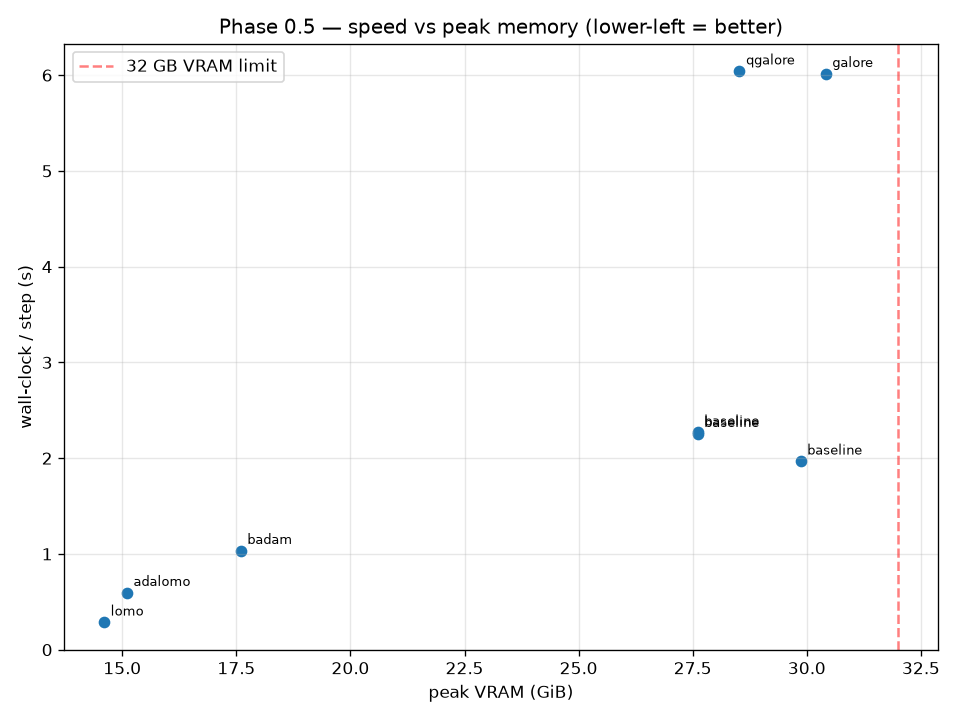
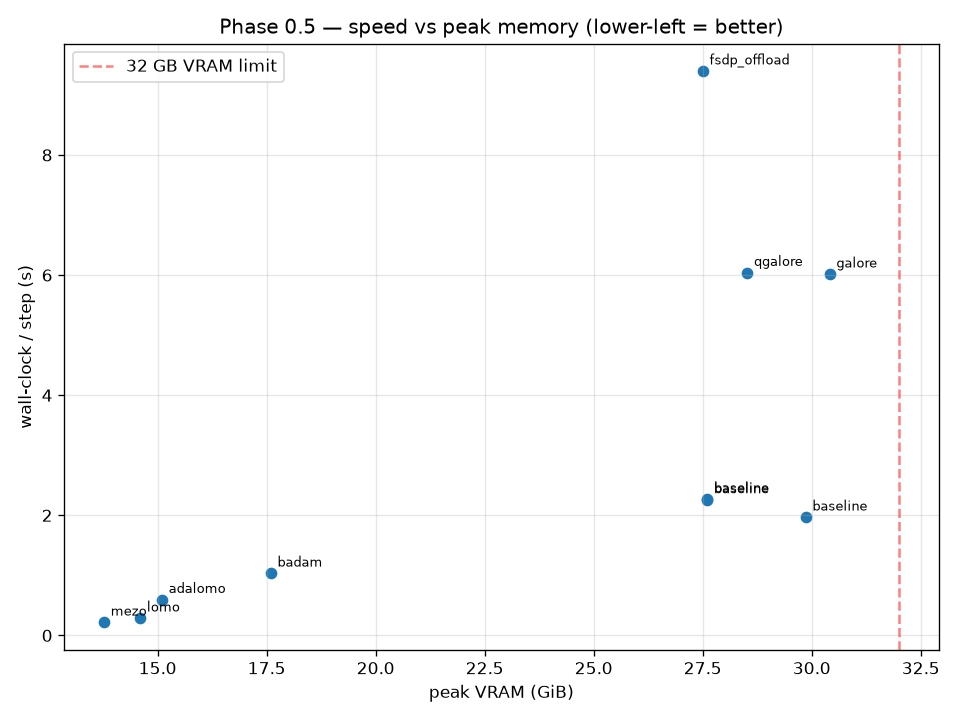
Phase 0.5 Sprint 8: MeZO + FSDP results folded into tables + narrative fix
Both deferred techniques now have real rows in the task843 trade-off
table (results/phase05/feasibility_table.*):

- MeZO: 13.77 GB (the memory FLOOR — no grads, no optimizer state),
  0.22 s/step, but eval 0.00 even at 500 steps (zeroth-order needs
  thousands; fits trivially, doesn't converge in budget).
- FSDP CPU-offload: FITS at 27.5 GB VRAM / 62.5 GB RAM, learns, but
  ~9-13 s/step (~45x slower than on-GPU).

Important narrative correction: "offload is the only route that fails"
was wrong. DeepSpeed OOMs because it keeps an fp32 master copy (+29 GB);
FSDP (bf16 params, no master) fits the same workload in 62 GB RAM. So
offload IS viable here via FSDP -- just PCIe-bound. Updated headline,
smoke table (FSDP row + the framework-divergence explanation), Table 1
(MeZO/FSDP rows + footnotes), the RAM interpretation (on-GPU ~2-5 GB vs
offload 62-87 GB), caveats, and llm_optimizations. Plots refreshed.

Claude-Session: https://claude.ai/code/session_01R7jQcUfZM95SLMxrWRiu3G

diff --git a/docs/phase-0.5-findings.md b/docs/phase-0.5-findings.md
@@ -29,8 +29,14 @@ alone is misleading — the held-out eval is what picks the winner:**
   the headroom winner. This round-trip (picked → withdrawn on eval → restored
   with the right recipe) is the spike's clearest lesson: *measure quality, and
   tune the optimizer to its family.*
-- The classic CPU-offload route (DeepSpeed ZeRO-Offload) is not viable: its fp32
-  optimizer state (~87 GB) exceeds available RAM.
+- **CPU offload is viable — but only via FSDP, and it's ~45× slower.** DeepSpeed
+  ZeRO-Offload OOMs (its fp32 master copy pushes state to ~87 GB > available RAM),
+  but **FSDP CPU-offload fits at 62 GB RAM** (bf16 params, no fp32 master) and
+  trains — at **~9–13 s/step vs ~0.3 s on-GPU**. So offload works as a fallback,
+  not a default.
+- **MeZO is the memory floor (13.8 GB — no grads, no optimizer state) but does not
+  converge in this budget** (eval 0.0 even at 500 steps; zeroth-order needs
+  thousands). It *fits* easily; it doesn't *learn* fast enough to be useful here.
 
 ---
 
@@ -42,7 +48,19 @@ random-token batches (feasibility only — loss values not meaningful).
 | Path | Optimizer | Fits? | Peak VRAM | Peak RAM | s/step | Verdict |
 |---|---|---|---|---|---|---|
 | **8-bit paged AdamW** (model on GPU) | `bnb.PagedAdamW8bit` | ✅ **yes** | **27.24 GB** | 4.5 GB | **1.70** | working fast baseline |
-| DeepSpeed ZeRO-2 + CPU offload | `DeepSpeedCPUAdam` (fp32) | ❌ **no** | — | OOM-killed @ init | — | fp32 state ~84 GB > ~87 GB avail |
+| **FSDP CPU-offload** (params→CPU) | fp32 AdamW | ✅ **yes** | 27.5 GB | **62 GB** | **~9–13** | offload *works* — but PCIe-bound, ~45× slower |
+| DeepSpeed ZeRO-2 + CPU offload | `DeepSpeedCPUAdam` (fp32) | ❌ **no** | — | OOM-killed @ init | — | fp32 state ~87 GB > ~87 GB avail |
+
+**The two offload frameworks diverge — and the reason is instructive.** Same idea
+(optimizer/params on CPU), opposite outcome: **DeepSpeed OOMs, FSDP fits.**
+DeepSpeed ZeRO-Offload keeps an **fp32 master copy** of the weights on CPU
+(+29 GB) on top of fp32 m+v; FSDP with bf16 mixed precision keeps **bf16 params,
+no separate fp32 master**, so its CPU footprint is ~62 GB — under the ~87 GB
+ceiling. So "offload" isn't one thing: the *framework's* precision bookkeeping
+decides feasibility here. FSDP proves offload is reachable on this box; its
+~9–13 s/step (vs ~0.3 s on-GPU) is the PCIe tax that makes it a fallback, not a
+default. (Single-GPU FSDP runs `NO_SHARD` + `CPUOffload` — nothing to shard, but
+params still stream CPU↔GPU.)
 
 ### Why fp32 ZeRO-Offload fails here (the memory math)
 **fp32 is the killer, and DeepSpeed gives no way around it.** DeepSpeed CPU
@@ -100,7 +118,9 @@ micro-batch; the others accumulate 8). Sources:
 | **BAdam** | ✅ | 17.60 GB | 1.9 GB | **0.13** | 14.4 GB | 0.856 | 0.25 |
 | baseline (paged 8-bit) | ✅ | 27.64 GB | 1.9 GB | 0.28 | 4.4 GB | 0.608 | 0.49 |
 | AdaLOMO | ✅ | 15.10 GB | 1.8 GB | 0.60 | 16.9 GB | 0.453 | 1.92 |
-| LOMO | ✅ | **14.60 GB** | 1.7 GB | 0.29 | **17.4 GB** | **0.000** | 3.77 |
+| LOMO (no clip) | ✅ | 14.60 GB | 1.7 GB | 0.29 | 17.4 GB | **0.000** | 3.77 |
+| MeZO | ✅ | **13.77 GB** | 5.2 GB | 0.22³ | **18.2 GB** | **0.000** | 12.0 |
+| FSDP CPU-offload | ✅ | 27.50 GB | **62.5 GB** | ~9.4⁴ | 4.5 GB | n/a⁴ | ~0.47 |
 | fp32 ZeRO-Offload | ❌ | — | ~95 GB (OOM) | — | — | — | — |
 
 ### Table 2 — task1344 (RTE entailment, binary — the harder task)
@@ -114,13 +134,22 @@ micro-batch; the others accumulate 8). Sources:
 | baseline (paged 8-bit) | ✅ | 27.65 GB | 1.9 GB | 0.31 | 4.4 GB | 0.528 | 0.23 |
 | AdaLOMO | ✅ | 15.15 GB | 1.8 GB | 0.62 | 16.9 GB | 0.431 | 5.25 |
 
+*(MeZO and FSDP measured on task843 only — see Table 1. ³ MeZO's "step" is 2
+forward passes (no backward); even at 500 steps eval stays 0.0 — zeroth-order
+needs thousands. ⁴ FSDP s/step is offload-bound (~9–13 s); its quality wasn't
+eval'd — generation under CPU-offload is impractically slow and FSDP isn't a
+recommended route given the ~45× train slowdown; loss does decrease.)*
+
 ### What the numbers say (and how the two tasks agree)
-- **Feasibility:** every VRAM-direct technique fits; the offload route is the only
-  family that fails (fp32 CPU-Adam state > RAM — see the breakdown above).
-- **Peak RAM is trivial for every on-GPU method (~1.7–2.0 GB).** That's just
-  Python + the data/model-load working set — these techniques **don't touch the
-  96 GB pool at all** (states live on the GPU). System RAM is a non-constraint
-  here; it only mattered for the offload route, which needed ~95 GB and OOMed.
+- **Feasibility:** every VRAM-direct technique fits; **FSDP offload also fits**
+  (62 GB RAM) but is ~45× slower; **only DeepSpeed offload fails** (fp32 master
+  pushes it over RAM — see the breakdown above). **MeZO fits (13.8 GB floor) but
+  doesn't converge** in budget.
+- **Peak RAM splits the families cleanly:** on-GPU methods use **~1.7–5 GB**
+  (just Python + working set — they never touch the 96 GB pool), while the
+  **offload routes are RAM-bound** (FSDP 62 GB; DeepSpeed wanted ~87 GB and
+  OOMed). So system RAM is a non-constraint *unless* you offload — which is the
+  whole reason the on-GPU methods win here.
 - **Quality leaders are consistent across both tasks: Q-GaLore / GaLore / BAdam
   (0.83–0.88 EM).** baseline (paged 8-bit) is mid (0.53–0.61). **LOMO and AdaLOMO
   underperform** — and that only shows up in *eval*, not in memory/speed.
@@ -217,5 +246,11 @@ poorly and stays LR-sensitive (0.62 / 0.34); use plain clipped LOMO.
   there). See the dedicated note above.
 - **BAdam** covers ~10 of 32 blocks in 50 steps (switch_every=5); full coverage
   needs a longer run. Memory/speed/quality profile is representative.
-- **MeZO** and **FSDP CPU-offload** not run (MeZO needs a custom zeroth-order
-  loop; FSDP fp32 offload would OOM RAM like DeepSpeed).
+- **MeZO** (Sprint 8) runs at the 13.8 GB memory floor but stays at 0.0 EM even
+  at 500 steps — zeroth-order needs orders more steps; not usable in this budget.
+- **FSDP CPU-offload** (Sprint 8) *fits* (62 GB RAM, no fp32 master — unlike
+  DeepSpeed) and learns, but at ~9–13 s/step it's ~45× slower than on-GPU; a
+  viable fallback, not a default. Its eval quality wasn't measured (generation
+  under offload is impractically slow).
+- **ZeRO-Infinity (NVMe)** still not run — unnecessary, since FSDP already shows
+  the offload route fits in RAM (no need to spill to disk).

diff --git a/results/phase05/feasibility_table.md b/results/phase05/feasibility_table.md
@@ -1,12 +1,14 @@
-| label              | technique    | fits   |   peak_vram_gb |   peak_ram_gb |   peak_ram_delta_gb |   wallclock_per_step_s |   wallclock_per_epoch_s |   final_train_loss |   steps | status   |   run_seconds | note                                                                                                                                                                               |
-|:-------------------|:-------------|:-------|---------------:|--------------:|--------------------:|-----------------------:|------------------------:|-------------------:|--------:|:---------|--------------:|:-----------------------------------------------------------------------------------------------------------------------------------------------------------------------------------|
-| baseline_paged8bit | baseline     | True   |        27.6069 |        1.904  |              0.945  |                 2.2723 |                  290.85 |            0.49381 |      50 | ok       |         127.6 | nan                                                                                                                                                                                |
-| galore             | galore       | True   |        30.4141 |        1.9477 |              0.9892 |                 6.0148 |                  769.89 |            0.42324 |      50 | ok       |         314.4 | nan                                                                                                                                                                                |
-| qgalore            | qgalore      | True   |        28.5241 |        1.9268 |              0.9684 |                 6.0417 |                  773.34 |            0.34481 |      50 | ok       |         315.8 | nan                                                                                                                                                                                |
-| lomo               | lomo         | True   |        14.6019 |        1.7393 |              0.817  |                 0.2867 |                   36.7  |            3.77485 |      50 | ok       |          33.4 | nan                                                                                                                                                                                |
-| adalomo            | adalomo      | True   |        15.1014 |        1.826  |              0.9027 |                 0.5961 |                   76.3  |            1.91949 |      50 | ok       |          48.4 | nan                                                                                                                                                                                |
-| badam              | badam        | True   |        17.5957 |        1.923  |              0.9707 |                 1.0344 |                  132.4  |            0.24866 |      50 | ok       |          64.7 | nan                                                                                                                                                                                |
-| zero_offload_fp32  | zero_offload | False  |         0      |       94.9    |            nan      |               nan      |                  nan    |          nan       |     nan | ok       |           2.6 | fp32 CPUAdam state ~81GB + ~14GB model > 86GB available RAM; OOM-killed in smoke (exit 137). DeepSpeed has no 8-bit CPU optimizer. Set LORA_LAB_FORCE_OFFLOAD=1 to attempt anyway. |
-| abl_anchor         | baseline     | True   |        27.6069 |        1.8987 |              0.9402 |                 2.2559 |                  288.76 |            0.33652 |      50 | ok       |         126.4 | nan                                                                                                                                                                                |
-| abl_no_8bit        | nan          | False  |       nan      |      nan      |            nan      |               nan      |                  nan    |          nan       |     nan | no_row   |         nan   | nan                                                                                                                                                                                |
-| abl_no_gradckpt    | baseline     | True   |        29.8633 |        1.8959 |              0.9376 |                 1.9678 |                  251.87 |            0.62111 |      50 | ok       |         111.9 | nan                                                                                                                                                                                |
+| label              | technique    | fits   |   peak_vram_gb |   peak_ram_gb |   wallclock_per_step_s |   eval_score |   final_train_loss |   steps | status   | note                                                                                                                                                                               |
+|:-------------------|:-------------|:-------|---------------:|--------------:|-----------------------:|-------------:|-------------------:|--------:|:---------|:-----------------------------------------------------------------------------------------------------------------------------------------------------------------------------------|
+| baseline_paged8bit | baseline     | True   |        27.6069 |        1.904  |                 2.2723 |      0.60773 |            0.49381 |      50 | ok       | nan                                                                                                                                                                                |
+| galore             | galore       | True   |        30.4141 |        1.9477 |                 6.0148 |      0.8674  |            0.42324 |      50 | ok       | nan                                                                                                                                                                                |
+| qgalore            | qgalore      | True   |        28.5241 |        1.9268 |                 6.0417 |      0.87845 |            0.34481 |      50 | ok       | nan                                                                                                                                                                                |
+| lomo               | lomo         | True   |        14.6019 |        1.7393 |                 0.2867 |      0       |            3.77485 |      50 | ok       | nan                                                                                                                                                                                |
+| adalomo            | adalomo      | True   |        15.1014 |        1.826  |                 0.5961 |      0.45304 |            1.91949 |      50 | ok       | nan                                                                                                                                                                                |
+| badam              | badam        | True   |        17.5957 |        1.923  |                 1.0344 |      0.85635 |            0.24866 |      50 | ok       | nan                                                                                                                                                                                |
+| zero_offload_fp32  | zero_offload | False  |         0      |       94.9    |               nan      |    nan       |          nan       |     nan | ok       | fp32 CPUAdam state ~81GB + ~14GB model > 86GB available RAM; OOM-killed in smoke (exit 137). DeepSpeed has no 8-bit CPU optimizer. Set LORA_LAB_FORCE_OFFLOAD=1 to attempt anyway. |
+| abl_anchor         | baseline     | True   |        27.6069 |        1.8987 |                 2.2559 |      0.64088 |            0.33652 |      50 | ok       | nan                                                                                                                                                                                |
+| abl_no_8bit        | nan          | False  |       nan      |      nan      |               nan      |    nan       |          nan       |     nan | no_row   | nan                                                                                                                                                                                |
+| abl_no_gradckpt    | baseline     | True   |        29.8633 |        1.8959 |                 1.9678 |      0.37569 |            0.62111 |      50 | ok       | nan                                                                                                                                                                                |
+| mezo               | mezo         | True   |        13.7721 |        5.2191 |                 0.2195 |      0       |           14.4731  |      50 | ok       | forward-only; trainable_params count=0 is an artifact (updates all params zeroth-order); needs >>500 steps                                                                         |
+| fsdp_offload       | fsdp_offload | True   |        27.5037 |       62.4996 |                 9.3961 |    nan       |            1.1647  |      50 | ok       | CPU-offload FITS at 62.5GB RAM (no fp32 master, unlike DeepSpeed) but ~45x slower; eval skipped (generation impractical under offload)                                             |

diff --git a/docs/llm_optimizations.md b/docs/llm_optimizations.md
@@ -62,9 +62,9 @@ accumulate 8). **Quality = held-out exact-match** on task843 / task1344.
 | AdaLOMO | fused, adaptive | ✅ / ✅ | 15.10 GB | 1.8 GB | 0.60 s | 0.45 / 0.43 | LR-sensitive; weak at shared 1e-5 |
 | **LOMO + clip** @ lr 5e-4 | fused, two-pass grad-clip | ✅ / ✅ | **14.60 GB** | 1.8 GB | 0.47 s | **0.84** (t843) | ★ lightest VRAM (~17 GB free) at top-tier quality — the headroom pick |
 | LOMO (no clip) @ lr 1e-5 | fused backward, no clip | ✅ / ✅ | 14.60 GB | 1.7 GB | 0.29 s | 0.00 / 0.59 | does NOT learn at the Adam-scale LR; needs clip + lr ~5e-4 |
-| ZeRO-Offload + fp32 Adam | DeepSpeed ZeRO-2, CPU optimizer offload | ❌ (RAM) / ❌ | — | ~95 GB (OOM) | — | — | fp32 CPUAdam ~87 GB > avail RAM; no 8-bit CPU optimizer |
-| FSDP CPU-offload | — | not run | | | | | fp32 offload would OOM RAM like DeepSpeed |
-| MeZO | — | not run | | | | | needs custom zeroth-order loop |
-| ZeRO-Infinity (NVMe) | — | not run | | | | | fallback only — RAM didn't pinch the on-GPU routes |
+| **FSDP CPU-offload** | params→CPU, fp32 AdamW, bf16 | ✅ / ✅ | 27.50 GB | **62.5 GB** | ~9–13 s | learns (loss↓) | offload FITS (no fp32 master) but **~45× slower** — fallback, not default |
+| ZeRO-Offload + fp32 Adam | DeepSpeed ZeRO-2, CPU optimizer offload | ❌ (RAM) / ❌ | — | ~95 GB (OOM) | — | — | fp32 CPUAdam +master ~87 GB > avail RAM; no 8-bit CPU optimizer |
+| MeZO | zeroth-order, forward-only | ✅ / ✅ | **13.77 GB** | 5.2 GB | 0.22 s | 0.00 (500 steps too) | lowest VRAM (no grads/optimizer) but needs thousands of steps |
+| ZeRO-Infinity (NVMe) | — | not run | | | | | unnecessary — FSDP shows offload fits in RAM |
 
 **Combinations** (task843): **LOMO + gradient clipping @ lr 5e-4 → 14.6 GB at 0.84 EM** (the headroom winner — clipping fixes the divergence, `clipped_lomo.csv`); **BAdam + 8-bit → 15.7 GB at 0.80 EM** (memory tricks stack); GaLore rank 64 ≈ rank 128 quality at less state (`combinations.csv`). AdaLOMO stays weak even clipped. See [`./phase-0.5-findings.md`](./phase-0.5-findings.md) for the full analysis.